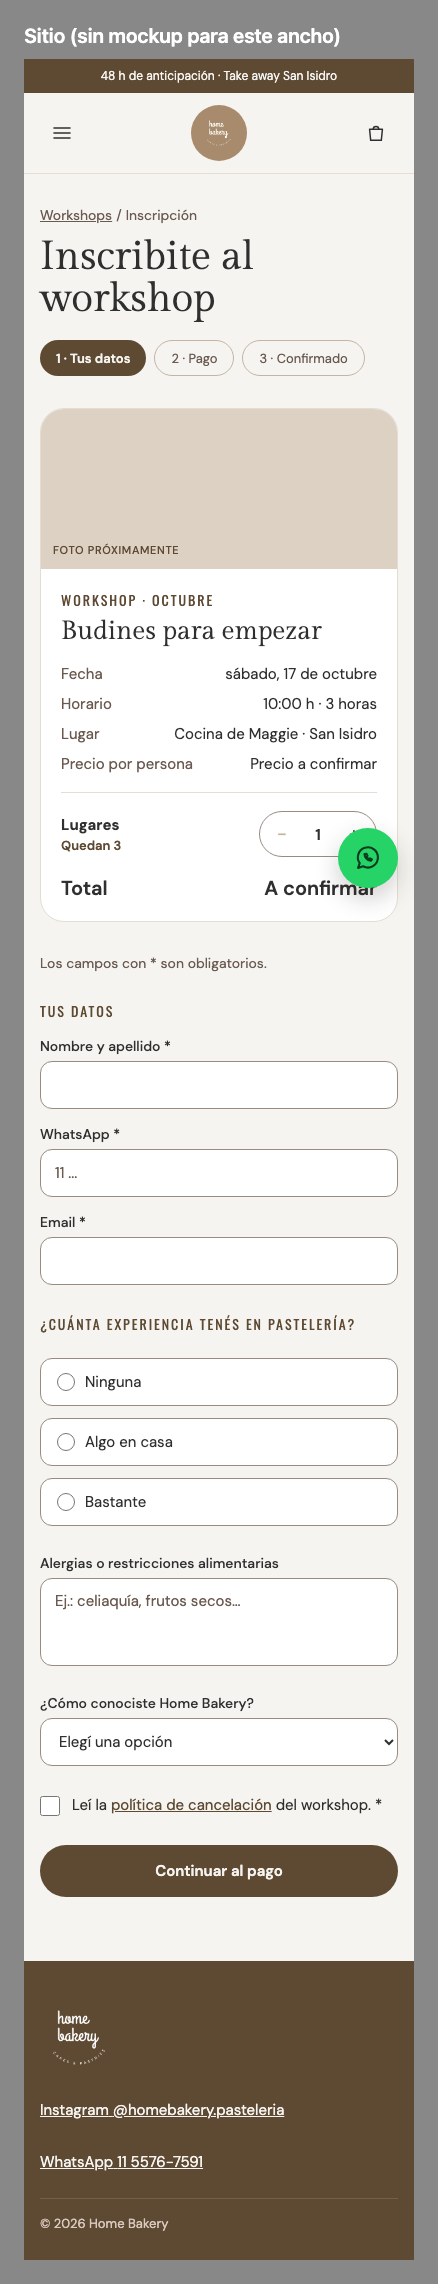
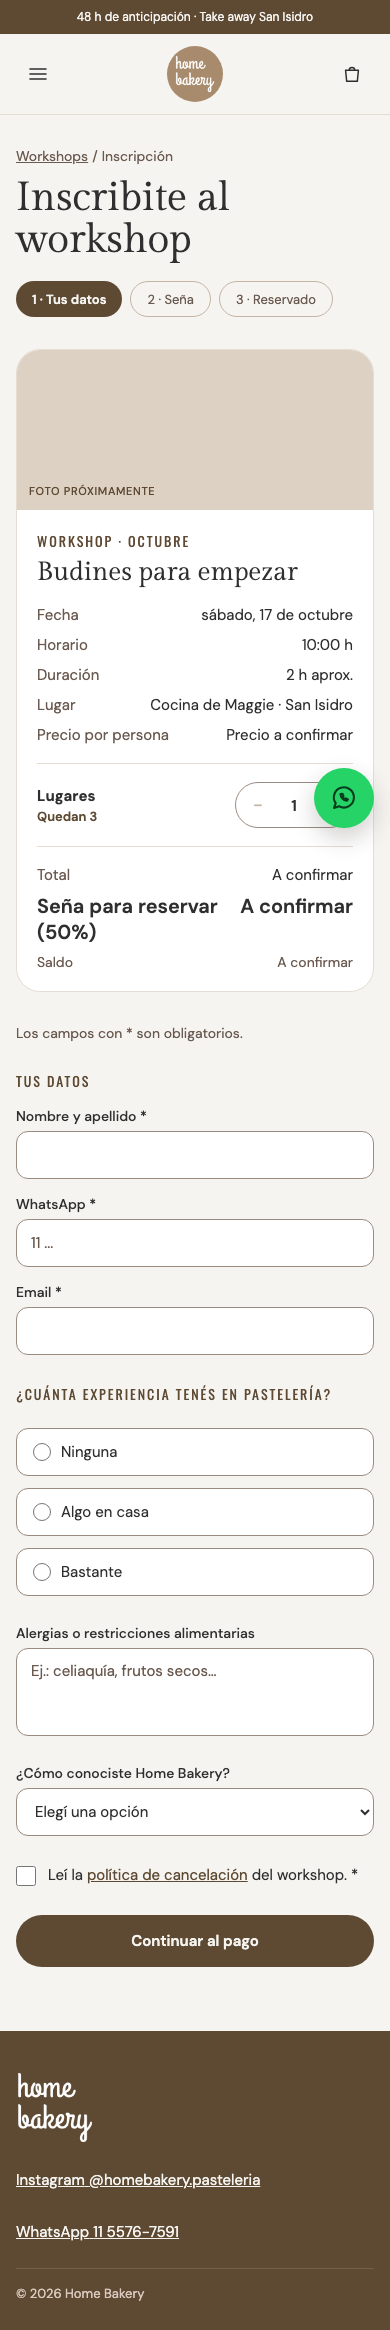
docs: lighthouse, capturas y bitácora del 04/10

diff --git a/docs/bitacora-ia.md b/docs/bitacora-ia.md
@@ -86,5 +86,80 @@ Cómo se aplicó en cada PR:
   - La línea de tiempo muestra las etapas sin años, salvo la web (2026).
   - "Incluye" dice "A confirmar" en cada workshop.
 - **PR #7:** no se publican el hint del email ni la nota de confirmación del pago del mockup, porque comprometen al negocio. El link a la política de cancelación va a la FAQ de `/workshops` hasta que exista la política.
+- **PR #10:**
+  - Los textos de Maggie van textuales, de `docs/contenido-maggie.md`. Donde el mockup v6 los parafraseaba, se usaron oraciones completas suyas.
+  - El carrusel queda con placeholders de color hasta que Maggie mande fotos horizontales.
+  - "Así fueron los workshops" muestra solo el título y el link a Instagram, sin nombres inventados.
+  - El saldo de la seña dice "a confirmar con Maggie".
+  - Se borraron la bio provisoria de `site.owner.bio` y los valores de `/maggie`, que ya no se usaban y no eran de Maggie.
 
 Lo que falta completar con Maggie está marcado con `TODO` en `data/site.ts`, `data/products.ts` y `data/workshops.ts`.
+
+## 04/10/2026
+
+Maggie revisó el sitio el 01/10 y mandó textos y cambios por WhatsApp. Catalina pasó el contenido a `docs/contenido-maggie.md` y actualizó el mockup a la v6 (`docs/mockup/README.md`, "Cambios de la v6").
+
+### Pedidos de Maggie (01/10)
+
+- **Logo:** solo "home bakery", sin "cakes & pastries", porque con la bajada queda todo más chiquito.
+- **Portada del inicio:** foto bien horizontal y a todo el ancho, no a la derecha con bordes redondeados. Si puede ser video, mejor. Idealmente un carrusel de 3 o 4 fotos o videos. Textos nuevos: "Artesanal, delicado y casero" / "Pastelería y workshops" / "Workshops reducidos en mi cocina y pastelería por encargo…".
+- **Presentación:** su foto real y su historia en primera persona.
+- **Workshops:** mostrar primero qué son, con un video de fondo que muestre la dinámica de cocina (tiene reels). Darle menos protagonismo al workshop del mes y ponerlo abajo, tipo agenda. Mandó las respuestas de las preguntas frecuentes.
+- **Reglas que salen de sus textos:**
+  - Hasta 8 personas, con un mínimo de 4.
+  - 2 h aprox.
+  - Reserva con seña del 50%.
+  - Sin reembolso, pero se puede pasar el lugar a otra persona.
+- **Pendiente de Maggie:**
+  - Fotos o videos horizontales para el carrusel.
+  - Reels de los workshops.
+  - Nombre, mes/año y foto de 4 workshops pasados.
+  - Cuándo y cómo se paga el saldo.
+
+### PR #10 · Contenido de Maggie v6 (`feat/contenido-maggie-v6`)
+
+**Objetivo:** llevar al sitio los textos y cambios de Maggie, fiel al mockup v6.
+
+**Prompt:**
+
+> Creá la rama feat/contenido-maggie-v6 desde main. Los cambios sin commitear en docs/, public/brand/ y public/fotos/ son parte de este PR; supabase/ NO (es del próximo).
+> Contexto: Maggie revisó el sitio y mandó textos y cambios. Ya actualicé el mockup a la v6. Antes de planificar, leé docs/mockup/README.md (sección "Cambios de la v6") y docs/contenido-maggie.md. Los textos de Maggie van tal cual: no inventes ni reescribas nada.
+> Implementá, mobile-first y fiel al mockup (inicio-desktop, inicio-mobile, workshops, maggie, inscripcion-workshop):
+> 1. Logo: homebakery_logo_sin_tagline_white.png en el header (círculo taupe) y en el footer; homebakery_logo_sin_tagline.png donde vaya en negro.
+> 2. Portada del inicio: componente cliente HeroCarousel a todo el ancho (720 px desktop / 640 px mobile), con la capa oscura y los textos de Maggie. Cada diapositiva puede ser foto o video ({ type, src, poster?, alt }, datos en data/site.ts). Accesibilidad: anterior/siguiente, puntos con 44 px de área táctil y botón de pausa visible. Avanza solo cada ~6 s, se frena con hover o foco y no avanza solo con prefers-reduced-motion. aria-roledescription, y aria-live "off" mientras avanza solo. Videos muted loop playsInline con póster. Sin librerías de carrusel. La primera imagen se precarga (LCP). Mientras Maggie no mande material, elegí 3 fotos de producto en buena resolución de "…/CATALOGO/_para-la-web/fotos" (ver catalogo.json, baja_resolucion: false) que funcionen recortadas en horizontal. Copialas a public/fotos/portada/ y marcalas TODO(Maggie) como provisorias.
+> 3. Presentación en el inicio con public/fotos/maggie-presentacion.jpg (next/image) y los textos del mockup.
+> 4. La banda "Workshop del mes" del inicio pasa a ser "Grupos reducidos en mi cocina"; la próxima fecha sale de getFeaturedWorkshop().
+> 5. /workshops en el orden del mockup: portada con video de fondo (placeholder hasta tener los reels, con botón de pausa), Cómo enseño, Cómo es un workshop (4 pasos + datos), Agenda (próximas fechas con cupo; el destacado es una fila más), Así fueron (sin nombres inventados: si no hay datos, solo el título y el link a Instagram), workshop personalizado y FAQ con las 6 respuestas reales en \<details\>.
+> 6. /maggie: hero con la foto real, "Mi historia" en tres partes con el texto completo; sacá la línea de tiempo con años.
+> 7. Inscripción: el resumen muestra total, "Seña para reservar (50%)" y saldo; el botón dice "Pagar la seña" (sigue siendo el paso por WhatsApp hasta el E6). El texto del saldo queda como TODO(Maggie). Cupo máximo 8. El mensaje prefijado de WhatsApp menciona la seña.
+> 8. data/workshops.ts: cupo 8 y duración 120 min. Todos los textos nuevos en data/site.ts.
+> Calidad: solo tokens de globals.css, foco visible, contraste AA del texto sobre la capa oscura (probalo con una foto clara). Lighthouse ≥95 en accesibilidad y SEO en /, /workshops y /maggie (actualizá docs/lighthouse.md). Corré npm run compare y guardá capturas en docs/mockup/capturas-pr/. Actualizá el e2e de inscripción y sumá uno del carrusel (pausa y navegación con teclado). Registrá en docs/bitacora-ia.md los pedidos de Maggie y este prompt.
+> Commits chicos; lint, build y e2e en verde; PR con el template. No mergees.
+
+**Respuestas a las preguntas del plan:**
+
+- **Fotos del carrusel:** las 56 fotos en buena resolución del catálogo son todas verticales (1200×1600 o 901×1600). Quedan placeholders de color hasta que Maggie mande material, y no se creó `public/fotos/portada/`.
+- **Textos:** el mockup v6 parafraseaba algunos textos de Maggie, por ejemplo "Me formé como chef profesional en el IAG…", los 4 pasos del workshop y "PDF:" con dos puntos, y sumaba frases que no son de ella. Se usaron sus oraciones textuales; los títulos y etiquetas del mockup quedaron. Las frases inventadas pasaron a `TODO(Maggie)`, por ejemplo "Si el cupo se completa antes, no se cobra nada".
+- **Contraste:** se mantuvo la capa del mockup y se sumó un degradé debajo del texto, medido sobre blanco puro (ver [lighthouse.md](lighthouse.md#contraste-del-texto-sobre-las-portadas)).
+
+**Correcciones de Claude Code durante el desarrollo** (no fueron pedidas, salieron de su propia verificación):
+
+- Reforzar el degradé de la portada porque el eyebrow de desktop daba 3.77:1 sobre blanco.
+- Dejar margen debajo de los títulos con palabra manuscrita, para que el trazo bajo no pise la bajada.
+- El botón de pausa del video de fondo aparece recién cuando hay video: un botón que no controla nada confunde a los lectores de pantalla.
+- Los botones "Reservar" de la agenda ocupaban todo el ancho en mobile.
+- La seña ("A confirmar") se cortaba en dos líneas en mobile.
+- Se borraron funciones y datos que quedaron sin uso (`getNextWorkshop`, `formatDuration`, `FeaturedWorkshop`, `Hero`).
+
+**Resultado:**
+
+- Logo sin tagline.
+- Carrusel accesible sin librerías.
+- Presentación con la foto de Maggie.
+- Banda y página de workshops reorganizadas.
+- `/maggie` con su historia completa.
+- Inscripción con seña del 50% y cupo de 8.
+- e2e nuevos del carrusel.
+- Lighthouse en 100.
+
+Abierto el 04/10, sin mergear.

diff --git a/docs/lighthouse.md b/docs/lighthouse.md
@@ -1,22 +1,36 @@
 # Lighthouse
 
-Puntajes de Accessibility, Best Practices y SEO en mobile. El mínimo aceptado es 90 en cada categoría.
+Puntajes de Accessibility, Best Practices y SEO en mobile. El mínimo aceptado es 95 en Accessibility y S## Última medición
 
-## Última medición
-
-- **Fecha:** 29/09/2026
-- **Commit:** `65eb1f9` (rama `feat/workshops-maggie`)
+- **Fecha:** 04/10/2026
+- **Commit:** `9e61c2d` (rama `feat/contenido-maggie-v6`)
 - **Lighthouse:** 12.8.2, emulación mobile, Chromium de Playwright (headless)
 - **Servidor:** build de producción (`npm run build && npm start`)
 
 | Ruta | Accessibility | Best Practices | SEO |
 |---|---|---|---|
 | `/` | 100 | 100 | 100 |
-| `/tienda` | 100 | 100 | 100 |
 | `/workshops` | 100 | 100 | 100 |
 | `/maggie` | 100 | 100 | 100 |
 
+`/tienda` no cambió en este PR y no se volvió a medir (100 / 100 / 100 el 29/09).
+
 No hubo que corregir nada: ninguna auditoría automática falló. Lighthouse no cubre todo: las pruebas manuales de accesibilidad (teclado, lector de pantalla, zoom) siguen haciendo falta.
+
+### Contraste del texto sobre las portadas
+
+Lighthouse mide el contraste contra el color de fondo del CSS, no contra la foto o el video, así que las portadas con capa oscura (carrusel del inicio y portada de `/workshops`) se midieron aparte, en el peor caso: la diapositiva pintada de blanco puro. Se toma el píxel más claro detrás de cada texto y se compara con el color del texto.
+
+| Texto | Tamaño | Inicio 1440 | Inicio 390 | /workshops 1440 | /workshops 390 |
+|---|---|---|---|---|---|
+| Eyebrow (crema) | 14 px | 6.29:1 | 4.72:1 | 6.53:1 | 5.10:1 |
+| Título (hueso) | 84-92 / 48 px | 7.21:1 | 6.37:1 | 5.80:1 | 6.70:1 |
+| Palabra manuscrita (crema) | 147-161 / 84 px | 6.13:1 | 5.34:1 | 6.42:1 | 5.69:1 |
+| Bajada (hueso) | 20 / 16 px | 7.56:1 | 6.57:1 | 7.45:1 | 6.99:1 |
+
+Con la capa pareja del mockup (`capa` al 42%) sola, la bajada daba ~2.9:1 sobre blanco. Se sumó un degradé de `capa` debajo del bloque de texto (hacia arriba en mobile y hacia la derecha en desktop). El primer ajuste dejaba el eyebrow de desktop en 3.77:1 y se reforzó hasta pasar 4.5:1. Todo el texto llega a AA (4.5:1) aunque la foto sea blanca.
+
+oom) siguen haciendo falta.
 
 ## Cómo repetirlo
 
